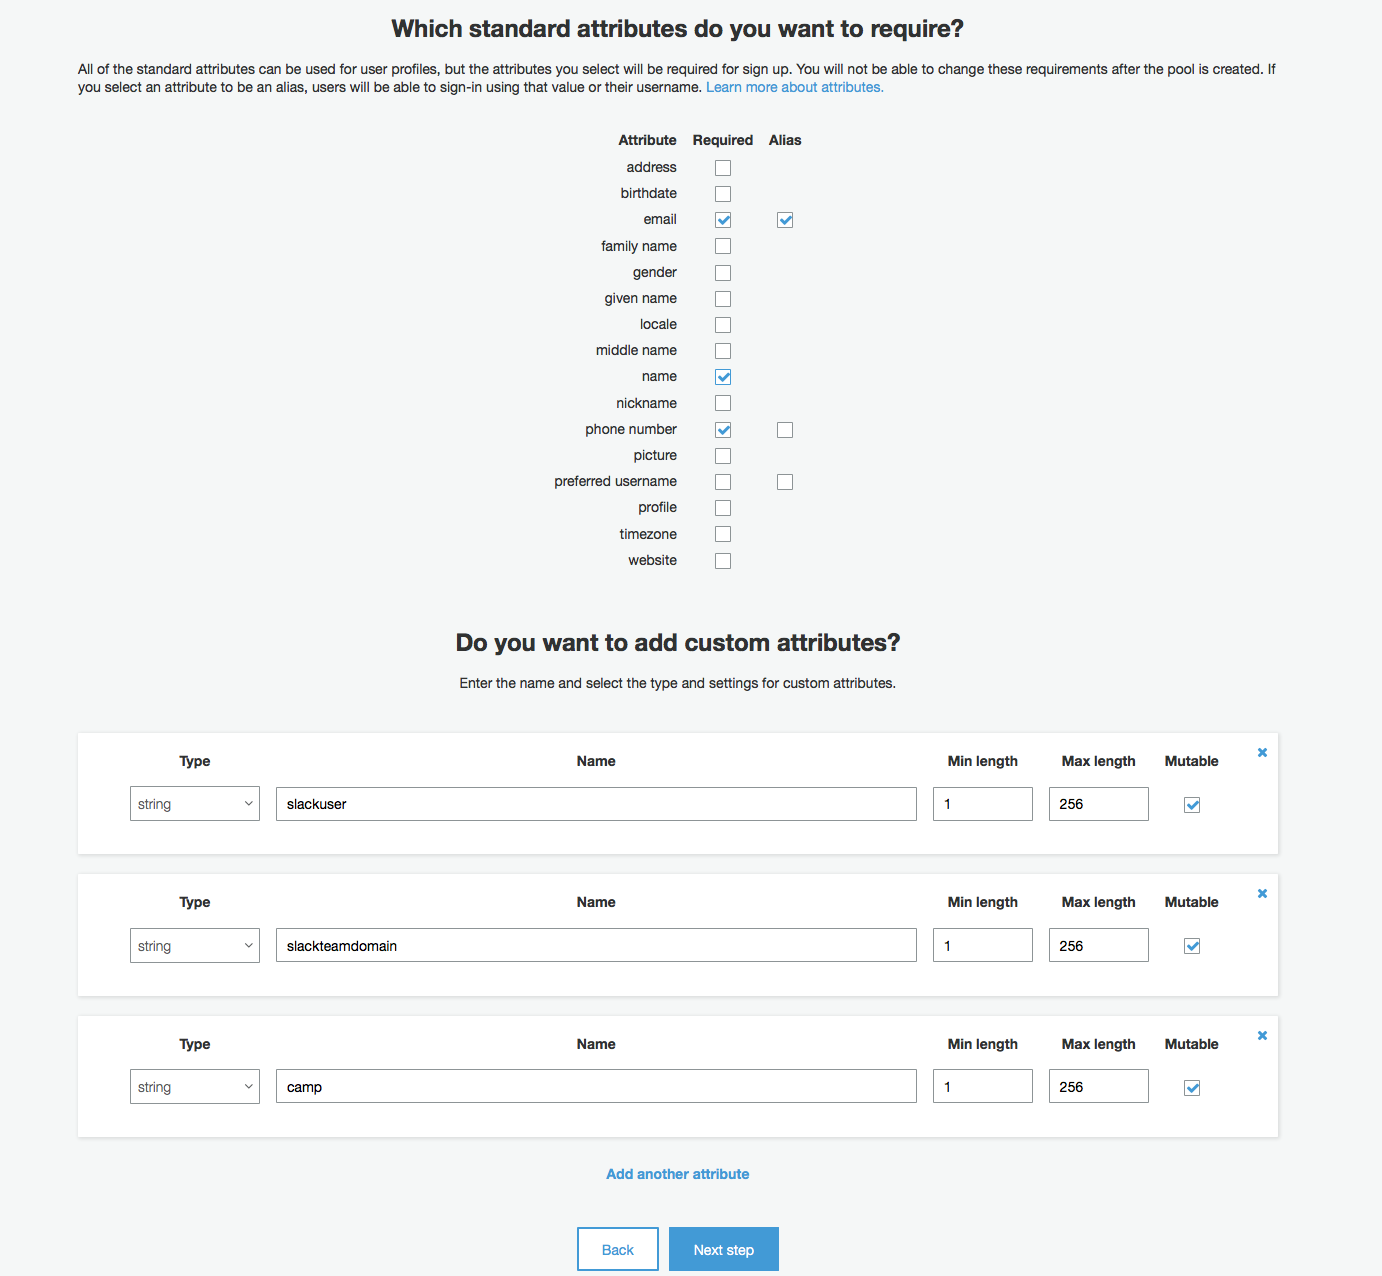
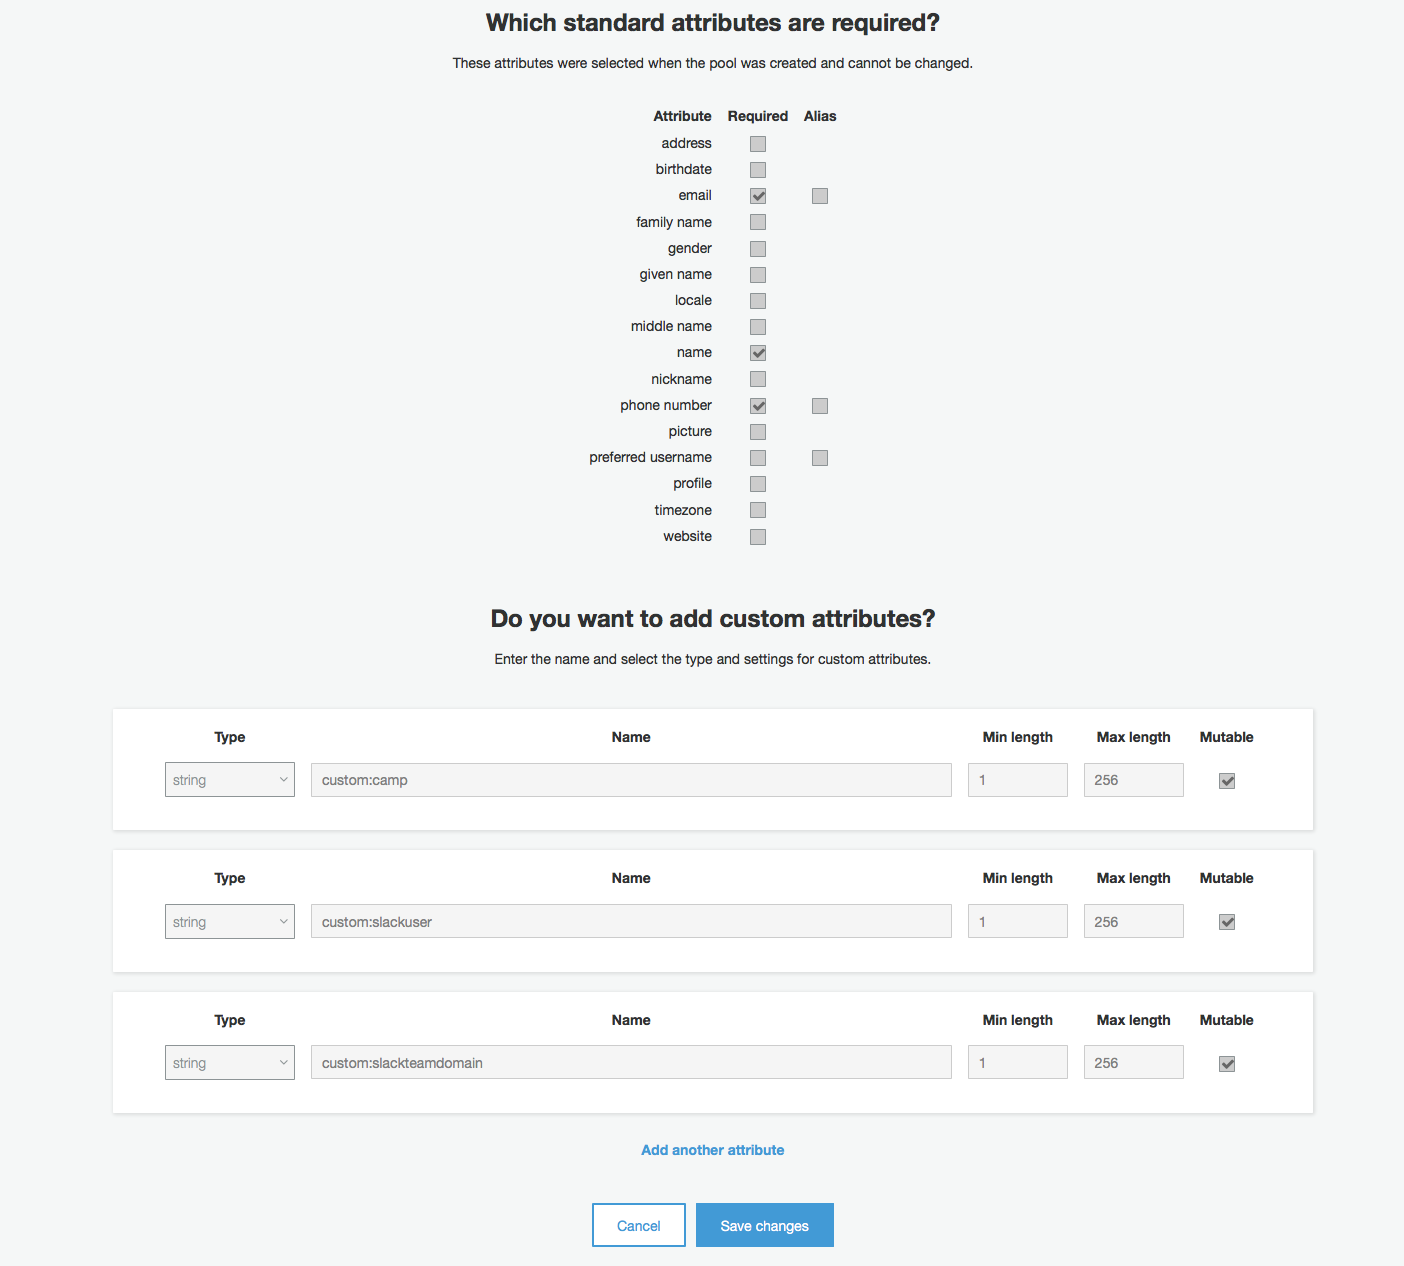
Bug fixes to resolve error handling issues with non-conforming passwords. Improved client side error handling. Removal of username transformation to alias. Email address is now the username

diff --git a/S3WebApp/S3/modules/signup/signup.html b/S3WebApp/S3/modules/signup/signup.html
@@ -38,19 +38,20 @@
                 </div>
                 <div class="form-group " ng-class="{ 'has-error': signupForm.phone.$touched && signupForm.phone.$invalid }">
                     <div class="col-xs-12">
-                        <input name="phone" class="form-control" ng-model="user.phone" required placeholder="Mobile Phone" type="text" ng-pattern=" /^(\+?1)?[2-9]\d{2}[2-9](?!11)\d{6}$/">
+                        <input name="phone" class="form-control" ng-model="user.phone" required placeholder="Mobile Phone" type="text" ng-pattern="/^[1-9][0-9]{9}$/">
                         <div class="help-block" ng-messages="signupForm.phone.$error" ng-if="signupForm.phone.$touched">
                             <p ng-message="required">This field is required</p>
-                            <p ng-message="pattern">Must be a valid 10 digit phone number</p>
+                            <p ng-message="pattern">Digits only please. Must be a valid 10 digit phone number</p>
                         </div>
                     </div>
                 </div>
                 <div class="form-group " ng-class="{ 'has-error': signupForm.password.$touched && signupForm.password.$invalid }">
                     <div class="col-xs-12">
-                        <input name="password" class="form-control" ng-model="user.password" required placeholder="Password" type="password" ng-pattern="/^(?=.*\d)(?=.*[a-z])(?=.*[A-Z]).{8,}$/">
+                        <input name="password" class="form-control" ng-model="user.password" required placeholder="Password" type="password" ng-pattern="/^(?=.*\d)(?=.*[\^\$\*\.\[\]\{\}\(\)\?\-\“\!\@\#\%\/\,\>\<\‘\:\;\|\_\~\`]).{8,99}$/">
                         <div class="help-block" ng-messages="signupForm.password.$error" ng-if="signupForm.password.$touched">
+
                             <p ng-message="required">This field is required</p>
-                            <p ng-message="pattern">Password must be at least 8 characters, and must include at least one upper case letter, one lower case letter, and one numeric digit.</p>
+                            <p ng-message="pattern">Password must be at least 8 characters, and must include at least 1 upper case letter, 1 lower case letter, 1 numeric digit, and at least 1 special character.</p>
                         </div>
                     </div>
                 </div>
@@ -64,7 +65,7 @@
                     </div>
                 </div>
                 <div class="form-group">
-                    <label class="col-xs-12">Select your camp</label>
+                    <label class="col-xs-12">Select a camp</label>
                     <div class="col-xs-12">
                         <select class="form-control" ng-model="user.camp">
                             <option value="NA">North America</option>
@@ -79,7 +80,7 @@
                     <div class="col-xs-12">
                         <input name="slackuser" class="form-control" ng-model="user.slackuser" placeholder="Slack Username" type="text">
                         <div class="help-block">
-                            <p>Required for Slack Lab: Please insert your Slack Username if you plan to integrate Slack into the survivor chat.</p>
+                            <p>Needed for Slack Lab: Please insert your Slack Username if you plan to integrate Slack into the survivor chat.</p>
                         </div>
                     </div>
                 </div>
@@ -87,7 +88,7 @@
                     <div class="col-xs-12">
                         <input name="slackteamdomain" class="form-control" ng-model="user.slackteamdomain" placeholder="Slack Team Domain Name" type="text">
                         <div class="help-block">
-                            <p>Required for Slack Lab: Please insert your the team name associated with your Slack user name</p>
+                            <p>Needed for Slack Lab: Please insert your the team name associated with your Slack user name</p>
                         </div>
                     </div>
                 </div>
@@ -98,7 +99,7 @@
                 </div>
                 <div class="form-group m-t-30 m-b-0">
                     <div class="col-sm-12 text-center">
-                        <p>Have account already? Please go to<a href="#/signin" class="text-primary m-l-5"><b>Sign In</b></a></p>
+                        <p>Have an account already? Please go to<a href="#/signin" class="text-primary m-l-5"><b>Sign In</b></a></p>
                     </div>
                 </div>
             </form>

diff --git a/S3WebApp/S3/modules/signup/signup.js b/S3WebApp/S3/modules/signup/signup.js
@@ -16,7 +16,7 @@ angular.module('chatApp.signup', ['chatApp.utils'])
 
     $scope.register = function(isValid) {
         console.log($scope.user);
-        var _username = $scope.user.email.replace("@", "_").replace(".", "_");
+        var _username = $scope.user.email;
         console.log(_username);
         if (isValid) {
             console.log("Submitted " + $scope.user.name);
@@ -76,12 +76,15 @@ angular.module('chatApp.signup', ['chatApp.utils'])
             userPool.signUp(_username, $scope.user.password, attributeList, null, function(err, result){
                 if (err) {
                     console.log(err);
-                    $scope.errormessage = "An unexpected error has occurred. Please try again.";
+                    $scope.errormessage = "An unexpected error has occurred. Please try again. Error: " + err;
+                    $scope.$apply();
                     return;
+                    
+                } else {
+                    cognitoUser = result.user;
+                    console.log('user name is ' + cognitoUser.getUsername());
+                    $state.go('confirm', { });
                 }
-                cognitoUser = result.user;
-                console.log('user name is ' + cognitoUser.getUsername());
-                $state.go('confirm', { });
             });
 
         } else {

diff --git a/S3WebApp/S3/modules/confirm/confirm.js b/S3WebApp/S3/modules/confirm/confirm.js
@@ -10,7 +10,7 @@ angular.module('chatApp.confirm', [])
 
     $scope.confirmAccount = function(isValid) {
         console.log($scope.user);
-        var _username = $scope.user.email.replace("@", "_").replace(".", "_");
+        var _username = $scope.user.email;
         if (isValid) {
             console.log("Confirmation code " + $scope.user.confirmCode);
 
@@ -29,7 +29,8 @@ angular.module('chatApp.confirm', [])
             cognitoUser.confirmRegistration($scope.user.confirmCode, true, function(err, result) {
                 if (err) {
                     console.log(err);
-                    $scope.errormessage = "An unexpected error has occurred. Please try again.";
+                    $scope.errormessage = "An unexpected error has occurred. Please try again. Error: " + err;
+                    $scope.$apply();
                     return;
                 }
                 console.log('call result: ' + result);

diff --git a/S3WebApp/S3/modules/confirm/confirm.html b/S3WebApp/S3/modules/confirm/confirm.html
@@ -13,6 +13,11 @@
                         <p class="text-muted">Confirm your Zombie Apocalypse chat account.</p>
                     </div>
                 </div>
+                <div class="form-group" ng-show="errormessage">
+                    <div class="col-xs-12 has-error">
+                        <p class="help-block">{{errormessage}}</p>
+                    </div>
+                </div>
                 <div class="form-group " ng-class="{ 'has-error': confirmForm.email.$touched && confirmForm.email.$invalid }">
                     <div class="col-xs-12">
                         <input name="email" class="form-control" ng-model="user.email" required placeholder="Email" type="email">

diff --git a/S3WebApp/S3/index.html b/S3WebApp/S3/index.html
@@ -39,8 +39,6 @@
         <script src="lib/apiGatewayCore/apiGatewayClient.js"></script>
         <script src="lib/apiGatewayCore/simpleHttpClient.js"></script>
         <script src="lib/apiGatewayCore/utils.js"></script>
-        <script src="apigClient.js"></script>
-
         <!-- This is the file that contains the API gateway endpoint... -->
         <script src="assets/js/constants.js"></script>
 

diff --git a/README.md b/README.md
@@ -94,9 +94,7 @@ When inside the Cognito service console, click the blue button **Manage your Use
 
 4\. On the attributes page, select the required checkbox for the following attributes: **email, name, phone number**.
 
-* Cognito User Pools allows you to define attributes that you'd like to associate with users of your application. These represent values that your users will provide when they sign up for your app. They are available to your application as a part of the session data provided to your client apps when users authenticate with Cognito. Cognito User Pools also allows you to specify "alias" attributes, which means that they can be used as an alternative method of logging into the application instead of username. Therefore, alias attributes must be unique within your User Pool.
-
-Select the "alias" checkbox for the **email** attribute. The email attribute will be unique for our environment and we'll make it available as an alias for users to login with.
+* Cognito User Pools allows you to define attributes that you'd like to associate with users of your application. These represent values that your users will provide when they sign up for your app. They are available to your application as a part of the session data provided to your client apps when users authenticate with Cognito. 
 
 5\. Click the link "Add custom attribute". Leave all the defaults and type a "Name" of **slackuser** exactly as typed here. Add 2 additional custom attributes, **slackteamdomain** and **camp**.
 
